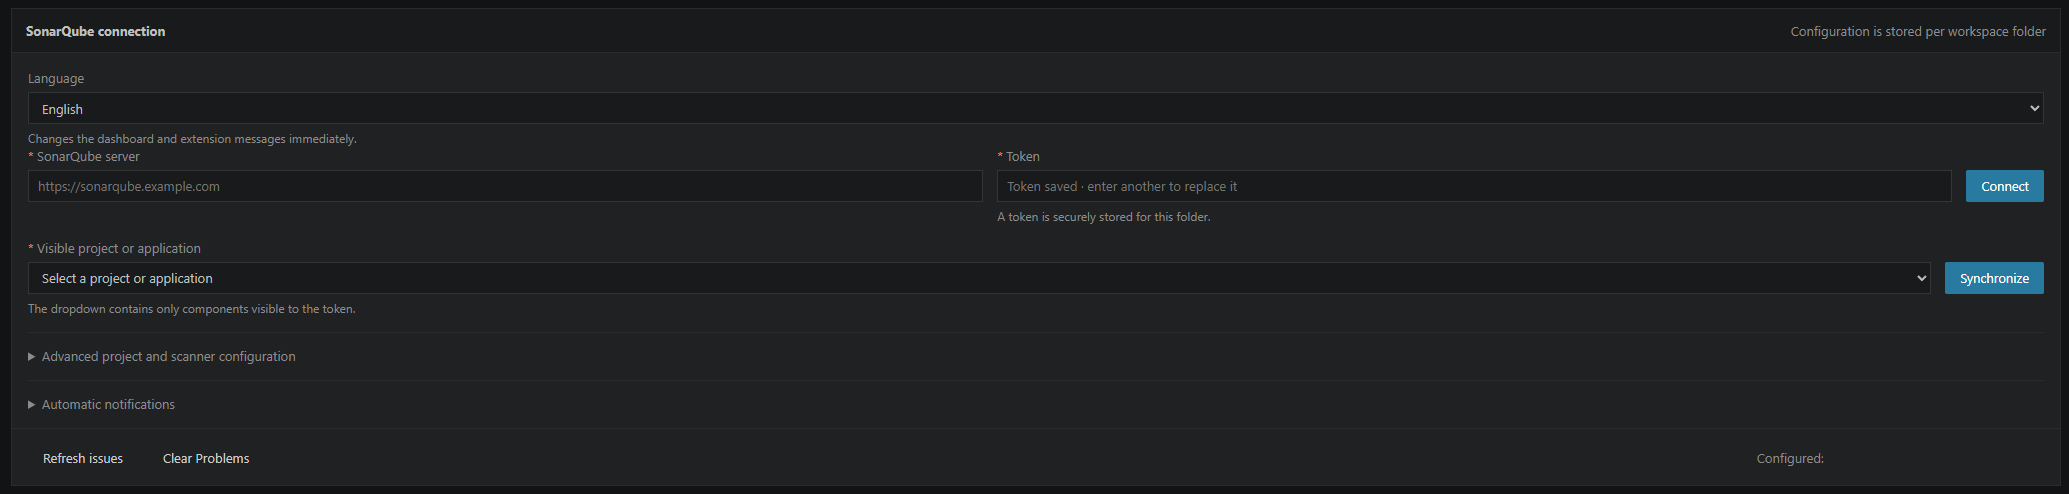
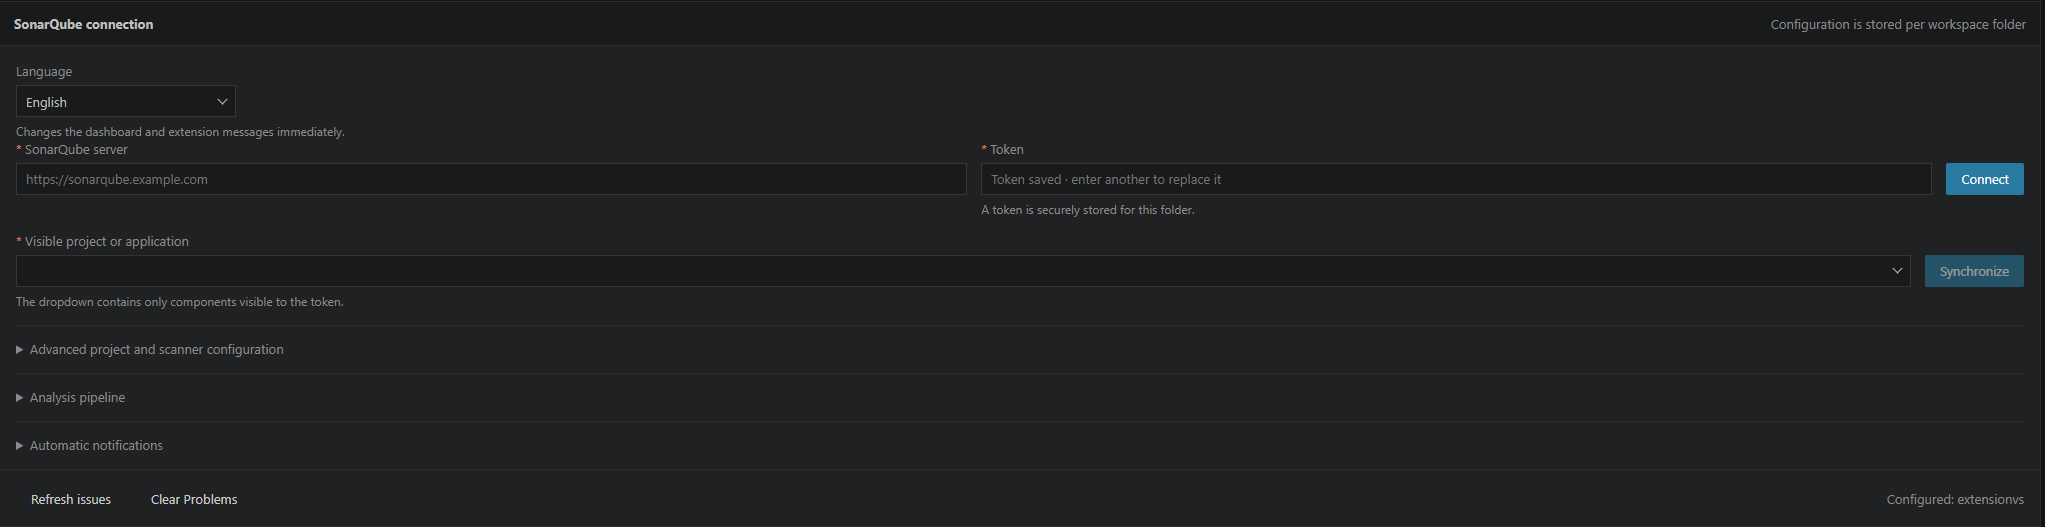
v.0.19.1 se añade las pipeline

diff --git a/src/dashboard/webview/scripts/pipelineEditor.ts b/src/dashboard/webview/scripts/pipelineEditor.ts
@@ -439,9 +439,54 @@ export const PIPELINE_EDITOR_SCRIPT = `    let pipelineStepCounter = 0;
         }));
     }
 
+    function createAnalysisStepStatusIcon(status) {
+      const iconPaths = {
+        success: {
+          name: 'check',
+          path: 'M13.78 4.22a.75.75 0 0 1 0 1.06l-7.25 7.25a.75.75 0 0 1-1.06 0L2.22 9.28a.75.75 0 0 1 1.06-1.06L6 10.94l6.72-6.72a.75.75 0 0 1 1.06 0Z'
+        },
+        failed: {
+          name: 'close',
+          path: 'M3.72 3.72a.75.75 0 0 1 1.06 0L8 6.94l3.22-3.22a.75.75 0 1 1 1.06 1.06L9.06 8l3.22 3.22a.75.75 0 0 1-1.06 1.06L8 9.06l-3.22 3.22a.75.75 0 0 1-1.06-1.06L6.94 8 3.72 4.78a.75.75 0 0 1 0-1.06Z'
+        },
+        warning: {
+          name: 'warning',
+          path: 'M7.25 2.5h1.5v7h-1.5v-7Zm0 9h1.5V13h-1.5v-1.5Z'
+        },
+        skipped: {
+          name: 'dash',
+          path: 'M3 7.25h10v1.5H3v-1.5Z'
+        }
+      };
+      const definition = iconPaths[status];
+      if (!definition) return null;
+
+      // Inline SVGs use the VS Code Codicons 16 × 16 icon convention without
+      // requiring the Codicon font to be bundled inside the webview.
+      const svg = document.createElementNS('http://www.w3.org/2000/svg', 'svg');
+      svg.classList.add('analysis-step-status-icon');
+      svg.setAttribute('viewBox', '0 0 16 16');
+      svg.setAttribute('focusable', 'false');
+      svg.setAttribute('aria-hidden', 'true');
+      svg.dataset.codicon = definition.name;
+
+      const path = document.createElementNS('http://www.w3.org/2000/svg', 'path');
+      path.setAttribute('d', definition.path);
+      svg.appendChild(path);
+      return svg;
+    }
+
+    function renderAnalysisStepStatusIcon(container, status) {
+      if (!container || container.dataset.status === status) return;
+      container.dataset.status = status;
+      container.replaceChildren();
+      const icon = createAnalysisStepStatusIcon(status);
+      if (icon) container.appendChild(icon);
+    }
+
     function renderAnalysisStepper(steps) {
       const nextSteps = Array.isArray(steps) ? steps : [];
-      elements.analysisStepper.hidden = nextSteps.length === 0;
+      elements.analysisStepper.hidden = nextSteps.length <= 1;
 
       const existingItems = new Map(
         [...elements.analysisStepper.children].map(item => [
@@ -466,11 +511,15 @@ export const PIPELINE_EDITOR_SCRIPT = `    let pipelineStepCounter = 0;
           item.append(icon, label);
         }
 
-        const nextClassName =
-          'analysis-step analysis-step--' + (step.status || 'pending');
+        const status = step.status || 'pending';
+        const nextClassName = 'analysis-step analysis-step--' + status;
         if (item.className !== nextClassName) {
           item.className = nextClassName;
         }
+        renderAnalysisStepStatusIcon(
+          item.querySelector('.analysis-step-icon'),
+          status
+        );
 
         const nextTitle = step.message || step.name || '';
         if (item.title !== nextTitle) {

diff --git a/src/dashboard/webview/styles/analysis.ts b/src/dashboard/webview/styles/analysis.ts
@@ -304,8 +304,6 @@ export const ANALYSIS_STYLES = `    .analysis-panel {
       border: 2px solid var(--vscode-panel-border);
       border-radius: 50%;
       background: var(--vscode-editorWidget-background);
-      font-size: 13px;
-      font-weight: 700;
     }
     .analysis-step--running .analysis-step-icon {
       border-color: var(--vscode-progressBar-background);
@@ -317,20 +315,26 @@ export const ANALYSIS_STYLES = `    .analysis-panel {
       color: var(--vscode-editor-background);
       background: var(--dashboard-quality-gate-ok);
     }
-    .analysis-step--success .analysis-step-icon::before { content: "✓"; }
     .analysis-step--failed .analysis-step-icon {
       border-color: var(--dashboard-quality-gate-error);
       color: var(--vscode-editor-background);
       background: var(--dashboard-quality-gate-error);
     }
-    .analysis-step--failed .analysis-step-icon::before { content: "×"; }
     .analysis-step--warning .analysis-step-icon {
       border-color: var(--vscode-editorWarning-foreground);
       color: var(--vscode-editor-background);
       background: var(--vscode-editorWarning-foreground);
     }
-    .analysis-step--warning .analysis-step-icon::before { content: "!"; }
-    .analysis-step--skipped .analysis-step-icon::before { content: "–"; }
+    .analysis-step-status-icon {
+      display: block;
+      width: 14px;
+      height: 14px;
+      fill: currentColor;
+      pointer-events: none;
+    }
+    .analysis-step--skipped .analysis-step-icon {
+      color: var(--vscode-descriptionForeground);
+    }
     .analysis-step-label {
       max-width: 130px;
       overflow: hidden;

diff --git a/test/analysisPipeline.test.ts b/test/analysisPipeline.test.ts
@@ -7,6 +7,7 @@ import {
   serializeAnalysisPipeline
 } from '../src/scanner/pipeline';
 import { PIPELINE_EDITOR_SCRIPT } from '../src/dashboard/webview/scripts/pipelineEditor';
+import { ANALYSIS_STYLES } from '../src/dashboard/webview/styles/analysis';
 
 test('parseAnalysisPipeline crea etapas nombradas, condiciones y omite comentarios', () => {
   const stages = parseAnalysisPipeline(
@@ -130,3 +131,20 @@ test('el botón Analizar se deshabilita mientras haya un paso incompleto', () =>
     /command\.addEventListener\('input', updateAnalysisConfirmAvailability\)/
   );
 });
+
+
+test('el stepper usa iconos SVG y no símbolos de texto para los estados', () => {
+  assert.match(PIPELINE_EDITOR_SCRIPT, /createAnalysisStepStatusIcon/);
+  assert.match(PIPELINE_EDITOR_SCRIPT, /data-codicon|dataset\.codicon/);
+  assert.match(PIPELINE_EDITOR_SCRIPT, /createElementNS\('http:\/\/www\.w3\.org\/2000\/svg', 'svg'\)/);
+  assert.doesNotMatch(ANALYSIS_STYLES, /content:\s*["'](?:✓|×|!|–)["']/);
+  assert.match(ANALYSIS_STYLES, /\.analysis-step-status-icon/);
+});
+
+test('el stepper se oculta cuando el pipeline solo tiene un paso', () => {
+  assert.match(
+    PIPELINE_EDITOR_SCRIPT,
+    /analysisStepper\.hidden\s*=\s*nextSteps\.length\s*<=\s*1/
+  );
+});
+

diff --git a/README.es.md b/README.es.md
@@ -22,6 +22,7 @@ Si el código analizado se encuentra dentro de una subcarpeta del workspace, deb
 ## Características principales
 
 - Análisis del repositorio desde VS Code con detección automática del scanner.
+- Pipeline de análisis configurable con compilación, tests y pasos personalizados ordenables mediante drag & drop.
 - Compatibilidad con Maven/Gradle para Java y Kotlin, SonarScanner for .NET para C#/VB.NET/F#, SonarScanner for NPM para proyectos con `package.json` y SonarScanner CLI en Docker para proyectos genéricos.
 - Selección manual de Maven, Gradle, .NET, NPM, Docker o un comando personalizado.
 - Sincronización automática al abrir un proyecto ya vinculado.
@@ -32,7 +33,7 @@ Si el código analizado se encuentra dentro de una subcarpeta del workspace, deb
 - Resumen por severidad y tipo de defecto.
 - Ratings de Maintainability, Reliability, Security y Security Review.
 - Estado y detalle completo del Quality Gate.
-- Tabla de defectos con filtro y navegación al código.
+- Tabla de defectos con filtro, ordenación por cabeceras y navegación al código.
 - Gestión del ciclo de vida del defecto sin salir de VS Code: aceptar, falso positivo, reapertura, asignación, comentarios, historial y responsable actual.
 - Navegación de flujos de seguridad con source, pasos intermedios, sink, ubicaciones secundarias, CodeLens y decoraciones en el editor.
 - Vista de cobertura y duplicación con métricas actuales de Overall/New Code, decoraciones en el gutter, bloques duplicados, archivos con menor cobertura e histórico de Overall agrupable por día, semana o mes.
@@ -40,7 +41,7 @@ Si el código analizado se encuentra dentro de una subcarpeta del workspace, deb
 - Notificaciones automáticas de regresiones, fallos del Quality Gate, nuevos hotspots y análisis completados.
 - Tabla específica de Security Hotspots.
 - Rankings de archivos y reglas con ordenación por columnas.
-- Evolución histórica de Overall por tipo de issue y criticidad, con agrupación independiente por día, semana o mes en cada gráfica. New Code conserva sus métricas actuales, pero oculta las gráficas históricas no comparables.
+- Evolución histórica de Overall por tipo de issue y criticidad, con agrupación independiente por día, semana o mes y **Día** como valor predeterminado. New Code conserva sus métricas actuales, pero oculta las gráficas históricas no comparables.
 - Publicación de diagnósticos en **Problems**.
 - Compatibilidad con ramas y subcarpetas locales.
 
@@ -56,7 +57,7 @@ Si el código analizado se encuentra dentro de una subcarpeta del workspace, deb
 8. Selecciona expresamente el proyecto o aplicación de SonarQube que analiza la carpeta abierta. Conectar nunca vincula un proyecto automáticamente.
 9. Configura opcionalmente la rama y, si las rutas no parten de la raíz del workspace, la subcarpeta local.
 10. Pulsa **Sincronizar** para guardar la vinculación y cargar sus datos.
-11. En la página **Datos**, pulsa **Analizar repositorio** para generar y enviar un nuevo análisis.
+11. En la página **Datos**, pulsa **Analizar repositorio**, añade los pasos opcionales de esta ejecución y confirma el pipeline.
 
 Después de la primera vinculación, la extensión sincroniza los datos automáticamente al abrir el workspace. El icono de recarga del panel lateral permite solicitar una actualización manual.
 
@@ -116,7 +117,7 @@ La tabla contiene:
 - **Archivo:** nombre final y línea afectada; el tooltip conserva la ruta completa.
 - **Regla:** nombre descriptivo de la regla de SonarQube.
 
-El campo de búsqueda filtra por archivo, regla o descripción. Al pulsar una fila se abre el archivo local en la línea afectada. Al pulsar la regla se muestra su descripción en un modal.
+El campo de búsqueda filtra por archivo, regla o descripción. Las cabeceras **Severidad**, **Tipo**, **Archivo**, **Estado** y **Regla** permiten ordenar la tabla; un segundo clic invierte la dirección. Al pulsar una fila se abre el archivo local en la línea afectada. Al pulsar la regla se muestra su detalle en un modal.
 
 Solo se incluyen los issues cuyo componente de SonarQube coincide con un archivo de la carpeta abierta, teniendo en cuenta la subcarpeta local configurada.
 
@@ -169,7 +170,7 @@ La sección inferior incluye dos gráficas:
 - **Issues por tipo:** Bugs, Code Smells, Vulnerabilidades y Security Hotspots.
 - **Issues por criticidad:** Blocker, Critical, Major, Minor e Info.
 
-Cada gráfica dispone de su propio selector **Día / Semana / Mes** en la esquina superior derecha. Los selectores son independientes: cambiar la agrupación de una gráfica no modifica ninguna otra.
+Cada gráfica dispone de su propio selector **Día / Semana / Mes** en la esquina superior derecha y comienza agrupada por **Día**. Los selectores son independientes: cambiar la agrupación de una gráfica no modifica ninguna otra.
 
 Cada punto representa el último análisis del intervalo seleccionado: el último análisis de cada día, de cada semana o de cada mes. Al mover el ratón sobre la gráfica aparece un tooltip que sigue el cursor e indica la fecha real de ese análisis y los valores de todas las series visibles.
 
@@ -240,7 +241,7 @@ La pestaña **Cobertura y duplicación** incluye vistas actuales independientes 
 - archivos con menor cobertura;
 - archivos con mayor duplicación.
 
-Las gráficas históricas de cobertura y duplicación están disponibles únicamente en **Overall**. Incluyen selectores **Día / Semana / Mes** independientes y conservan el último análisis de cada intervalo. En **New Code** se mantienen las métricas actuales y los rankings de archivos, mientras que las gráficas se sustituyen por un aviso que explica por qué no existe una serie comparable.
+Las gráficas históricas de cobertura y duplicación están disponibles únicamente en **Overall**. Incluyen selectores **Día / Semana / Mes** independientes, comienzan agrupadas por **Día** y conservan el último análisis de cada intervalo. En **New Code** se mantienen las métricas actuales y los rankings de archivos, mientras que las gráficas se sustituyen por un aviso que explica por qué no existe una serie comparable.
 
 Al seleccionar un archivo se cargan los datos por línea bajo demanda. Las líneas cubiertas, parcialmente cubiertas y no cubiertas se marcan en el gutter y el overview ruler. Las líneas duplicadas utilizan una decoración propia, y el modal de detalle enumera cada bloque duplicado junto con todos los archivos y rangos locales coincidentes.
 
@@ -312,6 +313,30 @@ Al pulsar un hotspot se consulta su detalle y se abre un modal con:
 
 La extensión obtiene el detalle bajo demanda para no retrasar la carga inicial del dashboard.
 
+## Pipeline de análisis configurable
+
+![Configuración de compilación, tests y pasos personalizados](docs/images/analysis-pipeline-configuration.png)
+
+La sección **Configuración → Pipeline de análisis** detecta automáticamente los comandos habituales de compilación y tests según el proyecto. Ambos pueden reemplazarse manualmente. También permite crear pasos personalizados para auditorías de dependencias, linters, SAST, generación de informes u otras herramientas disponibles en el workspace.
+
+Cada paso personalizado incluye:
+
+- nombre y comando editables;
+- ordenación mediante drag & drop desde el icono `⋮⋮`;
+- condición **Detener si falla** o **Continuar si falla**;
+- variables `${workspaceFolder}`, `${projectKey}`, `${projectName}`, `${serverUrl}` y `${branch}`;
+- guardado independiente mediante **Guardar pipeline**.
+
+![Selección y orden de los pasos antes de analizar](docs/images/analysis-pipeline-confirmation.png)
+
+Al abrir **Analizar repositorio**, la ejecución contiene inicialmente solo el paso obligatorio de SonarQube. **Añadir paso** permite incorporar la compilación detectada, los tests o cualquiera de los pasos personalizados guardados. El comando puede ajustarse para esa ejecución y el orden respecto a SonarQube se controla arrastrando cada fila desde su icono.
+
+El botón **Analizar** permanece deshabilitado mientras exista un paso incompleto. Los pasos opcionales pueden eliminarse antes de comenzar y no modifican la configuración guardada.
+
+![Stepper y registro de un pipeline en ejecución](docs/images/analysis-pipeline-execution.png)
+
+Durante la ejecución, el modal muestra un stepper cuando hay más de un paso. Cada etapa indica si está ejecutándose, ha finalizado correctamente, ha fallado deteniendo el pipeline o ha fallado con permiso para continuar. El registro separa claramente el inicio y el final de cada paso, muestra el comando ejecutado y conserva la salida completa de las herramientas.
+
 ## Análisis del repositorio
 
 ![Análisis del repositorio y registro de SonarScanner](docs/images/analisis.png)
@@ -329,7 +354,7 @@ En modo **Automático**, la prioridad de detección es **.NET → Maven → Grad
 
 SonarScanner for NPM lee el `package.json` del proyecto. La extensión no crea uno artificialmente: si el workspace no lo contiene, selecciona directamente Docker y evita iniciar NPX con una configuración incompatible.
 
-La extensión muestra el progreso y el registro completo, permite cancelar el proceso, espera a que SonarQube termine la tarea en segundo plano y después actualiza automáticamente el dashboard y **Problems**. El modal puede cerrarse durante la ejecución sin detener el análisis; **Ver registro** permite abrirlo de nuevo. Únicamente **Cancelar análisis** finaliza el scanner. El token se oculta en el registro.
+La extensión ejecuta el pipeline seleccionado, muestra el progreso y el registro completo, permite cancelar el proceso, espera a que SonarQube termine la tarea en segundo plano y después actualiza automáticamente el dashboard y **Problems**. El modal puede cerrarse durante la ejecución sin detener el análisis; **Ver registro** permite abrirlo de nuevo. Únicamente **Cancelar análisis** finaliza el scanner. El token se oculta en el registro.
 
 Antes de habilitar esta sección, la extensión consulta el endpoint de caché de análisis que utiliza SonarScanner y que requiere el permiso **Execute Analysis / Ejecutar análisis**. Si SonarQube rechaza la petición, se ocultan los controles de análisis y se indica el motivo en Configuración. Una respuesta que simplemente indique que todavía no existe caché se considera válida. La comprobación se repite en el backend antes de iniciar cualquier scanner.
 
@@ -379,6 +404,7 @@ La página de configuración permite gestionar:
 - **Método de análisis:** automático, Maven, Gradle, .NET, NPM, Docker o personalizado.
 - **Comando de compilación:** comando opcional previo al scanner genérico o sustituto de `dotnet build`.
 - **Comando personalizado:** permite integrar herramientas o procesos propios sin guardar el token en el comando.
+- **Pipeline de análisis:** comandos de compilación y tests detectados, pasos personalizados, orden y política de fallo.
 
 ### Seguridad del token
 

diff --git a/README.md b/README.md
@@ -21,6 +21,7 @@ When the analyzed code is located inside a workspace subfolder, configure it und
 ## Main features
 
 - Run repository analysis from VS Code with automatic scanner detection.
+- Configurable analysis pipeline with build, test, and custom steps ordered through drag & drop.
 - Support for Maven and Gradle projects using Java or Kotlin, SonarScanner for .NET for C#/VB.NET/F#, SonarScanner for NPM for projects containing `package.json`, and SonarScanner CLI through Docker for generic projects.
 - Manual selection of Maven, Gradle, .NET, NPM, Docker, or a custom command.
 - Automatic synchronization when opening an already linked project.
@@ -31,7 +32,7 @@ When the analyzed code is located inside a workspace subfolder, configure it und
 - Summaries by severity and issue type.
 - Maintainability, Reliability, Security, and Security Review ratings.
 - Quality Gate status and full condition details.
-- Filterable issue table with direct navigation to source code.
+- Filterable issue table with sortable headers and direct navigation to source code.
 - Issue lifecycle management without leaving VS Code: accept, false positive, reopen, assignment, comments, history, and current assignee.
 - Security execution-flow navigation with source, intermediate steps, sink, secondary locations, CodeLens, and editor decorations.
 - Coverage and duplication view with current Overall/New Code metrics, gutter decorations, duplicated blocks, low-coverage files, and Overall historical trends grouped by day, week, or month.
@@ -39,7 +40,7 @@ When the analyzed code is located inside a workspace subfolder, configure it und
 - Automatic regression notifications for critical issues, Quality Gate failures, issue increases, new hotspots, and completed analyses.
 - Dedicated Security Hotspots table.
 - File and rule rankings with sortable columns.
-- Overall historical evolution by issue type and severity, with independent day, week, or month grouping for every chart. New Code keeps its current metrics but intentionally hides non-comparable historical charts.
+- Overall historical evolution by issue type and severity, with independent day, week, or month grouping and **Day** selected by default. New Code keeps its current metrics but intentionally hides non-comparable historical charts.
 - Native diagnostics published in **Problems**.
 - Support for branches and local subfolders.
 
@@ -55,7 +56,7 @@ When the analyzed code is located inside a workspace subfolder, configure it und
 8. Explicitly select the SonarQube project or application that analyzes the open folder. Connecting never links a project automatically.
 9. Optionally configure the branch and, when paths do not start at the workspace root, the local subfolder.
 10. Select **Synchronize** to save the link and load its data.
-11. On the **Data** page, select **Analyze repository** to create and submit a new analysis.
+11. On the **Data** page, select **Analyze repository**, add the optional steps for that run, and confirm the pipeline.
 
 After the first link is created, the extension synchronizes data automatically whenever the workspace is opened. The refresh icon in the side panel can be used to request a manual update.
 
@@ -115,7 +116,7 @@ The table contains:
 - **File:** final filename and affected line; the tooltip preserves the complete path.
 - **Rule:** descriptive SonarQube rule name.
 
-The search field filters by file, rule, or description. Selecting a row opens the local file at the affected line. Selecting the rule opens its description in a dialog.
+The search field filters by file, rule, or description. The **Severity**, **Type**, **File**, **Status**, and **Rule** headers sort the table; selecting the same header again reverses the direction. Selecting a row opens the local file at the affected line. Selecting the rule opens its details in a dialog.
 
 Only issues whose SonarQube component matches a file in the open folder are included, taking the configured local subfolder into account.
 
@@ -168,7 +169,7 @@ The lower section contains two charts:
 - **Issues by type:** Bugs, Code Smells, Vulnerabilities, and Security Hotspots.
 - **Issues by severity:** Blocker, Critical, Major, Minor, and Info.
 
-Each chart has its own **Day / Week / Month** selector in the upper-right corner. Selectors are independent, so changing one chart's grouping does not modify any other chart.
+Each chart has its own **Day / Week / Month** selector in the upper-right corner and starts grouped by **Day**. Selectors are independent, so changing one chart's grouping does not modify any other chart.
 
 Each point represents the latest analysis in the selected interval: the latest analysis of each day, week, or month. Moving the pointer over a chart displays a tooltip that follows the cursor and shows that analysis's actual date and the values for every visible series.
 
@@ -239,7 +240,7 @@ The **Coverage and duplication** data tab provides separate current Overall and 
 - files with the lowest coverage;
 - files with the highest duplication.
 
-Historical coverage and duplication charts are available in **Overall** only. They provide independent **Day / Week / Month** selectors and retain the latest analysis from each interval. In **New Code**, the current metrics and file rankings remain available, while the historical charts are replaced with a notice explaining why the series is unavailable.
+Historical coverage and duplication charts are available in **Overall** only. They provide independent **Day / Week / Month** selectors, start grouped by **Day**, and retain the latest analysis from each interval. In **New Code**, the current metrics and file rankings remain available, while the historical charts are replaced with a notice explaining why the series is unavailable.
 
 Selecting a file loads line-level data on demand. Covered, partially covered, and uncovered lines are marked in the gutter and overview ruler. Duplicated lines receive a dedicated decoration, and the detail dialog lists each duplicated block together with every matching local file and range.
 
@@ -311,6 +312,30 @@ Selecting a hotspot loads its details and opens a dialog containing:
 
 The extension loads hotspot details on demand so they do not delay the initial dashboard load.
 
+## Configurable analysis pipeline
+
+![Build, test, and custom-step configuration](docs/images/analysis-pipeline-configuration.png)
+
+The **Configuration → Analysis pipeline** section automatically detects common build and test commands for the current project. Both commands can be overridden manually. Custom steps can also run dependency audits, linters, SAST tools, report generators, or any other tool available in the workspace.
+
+Each custom step provides:
+
+- editable name and command;
+- drag & drop ordering from the `⋮⋮` handle;
+- **Stop on failure** or **Continue on failure** behavior;
+- `${workspaceFolder}`, `${projectKey}`, `${projectName}`, `${serverUrl}`, and `${branch}` variables;
+- independent persistence through **Save pipeline**.
+
+![Selecting and ordering steps before analysis](docs/images/analysis-pipeline-confirmation.png)
+
+When **Analyze repository** is opened, the run initially contains only the required SonarQube step. **Add step** can include the detected build command, tests, or any saved custom step. The command can be adjusted for that run, and its position relative to SonarQube is controlled by dragging the row from its handle.
+
+The **Analyze** button remains disabled while any step is incomplete. Optional steps can be removed before execution without changing the saved pipeline configuration.
+
+![Pipeline stepper and execution log](docs/images/analysis-pipeline-execution.png)
+
+While the pipeline runs, the dialog displays a stepper whenever more than one step is present. Each stage indicates whether it is running, succeeded, failed and stopped the pipeline, or failed with permission to continue. The log clearly separates the start and end of each step, displays the executed command, and preserves the complete tool output.
+
 ## Repository analysis
 
 ![Repository analysis and SonarScanner log](docs/images/analisis.png)
@@ -328,7 +353,7 @@ In **Automatic** mode, detection priority is **.NET → Maven → Gradle → NPM
 
 SonarScanner for NPM reads the project's `package.json`. The extension does not create an artificial file: when the workspace does not contain one, it selects Docker directly and avoids launching NPX with an incompatible configuration.
 
-The extension displays progress and the complete log, supports cancellation, waits for SonarQube to finish its background task, and then updates the dashboard and **Problems** automatically. The dialog can be closed while execution continues without stopping the analysis; **View log** opens it again. Only **Cancel analysis** terminates the scanner. The token is masked in the log.
+The extension runs the selected pipeline, displays progress and the complete log, supports cancellation, waits for SonarQube to finish its background task, and then updates the dashboard and **Problems** automatically. The dialog can be closed while execution continues without stopping the analysis; **View log** opens it again. Only **Cancel analysis** terminates the scanner. The token is masked in the log.
 
 Before enabling repository analysis, the extension queries the analysis-cache endpoint used by SonarScanner, which requires the **Execute Analysis** permission. If SonarQube rejects the request, analysis controls are hidden and the reason is shown in Configuration. A response indicating that no cache exists yet is considered valid. The backend repeats this validation before starting any scanner.
 
@@ -378,6 +403,7 @@ The configuration page manages:
 - **Analysis method:** Automatic, Maven, Gradle, .NET, NPM, Docker, or Custom.
 - **Build command:** optional command executed before the generic scanner or used instead of `dotnet build`.
 - **Custom command:** integrates custom tools or processes without storing the token in the command.
+- **Analysis pipeline:** detected build and test commands, custom steps, ordering, and failure policy.
 
 ### Token security
 
